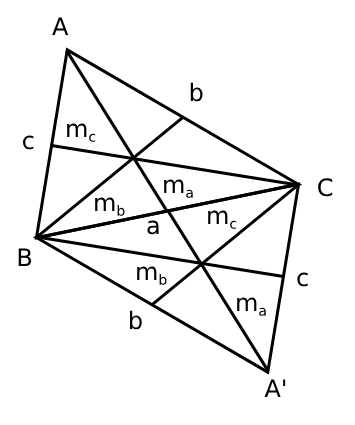
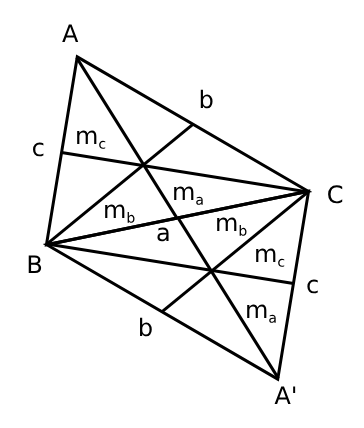
vault backup: 2025-04-22 20:27:47
Affected files:
.obsidian/workspace.json
BTI/1º semestre - 2025.1/Matemática Elementar/2. Equações e Inequações.md
BTI/1º semestre - 2025.1/Matemática Elementar/Arquivos/Metadados/Capítulo 2 - Exercício 26 - 2.png
Pasted image 20250422202245.png

Changed region(s): [[0.031, 0.0306, 0.8676, 0.9482], [0.8986, 0.3976, 0.9606, 0.4894], [0.2789, 0.6424, 0.3408, 0.6729]]

diff --git a/BTI/1º semestre - 2025.1/Matemática Elementar/2. Equações e Inequações.md b/BTI/1º semestre - 2025.1/Matemática Elementar/2. Equações e Inequações.md
@@ -2433,7 +2433,6 @@ Logo, temos que a soma dos comprimentos das medianas é maior que o semiperímet
 
 Agora, vamos "espelhar" o triângulo em relação ao lado $a$, como mostra a figura abaixo:
 
-![[Pasted image 20250422202245.png]]
 ![[Capítulo 2 - Exercício 26 - 2.png]]
 
 Ainda da desigualdade triangular, temos, para $m_a$, o seguinte:
@@ -2451,8 +2450,12 @@ $$
 Fazendo a "soma" das três inequações obtidas:
 
 $$
-
+2m_a + 2m_b + 2m_c < 2a + 2b + 2c \implies m_a + m_b + m_c < a + b + c
 $$
+
+Logo, temos que a soma dos comprimentos das medianas é menor que o perímetro.
+
+Portanto, provamos que a soma dos comprimentos das medianas é menor que o perímetro do triângulo e maior que o semiperímetro dele.
 
 **27. Suponha que $0 < a < b$. Prove que $a < \sqrt{a \cdot b} < b$.**
 
